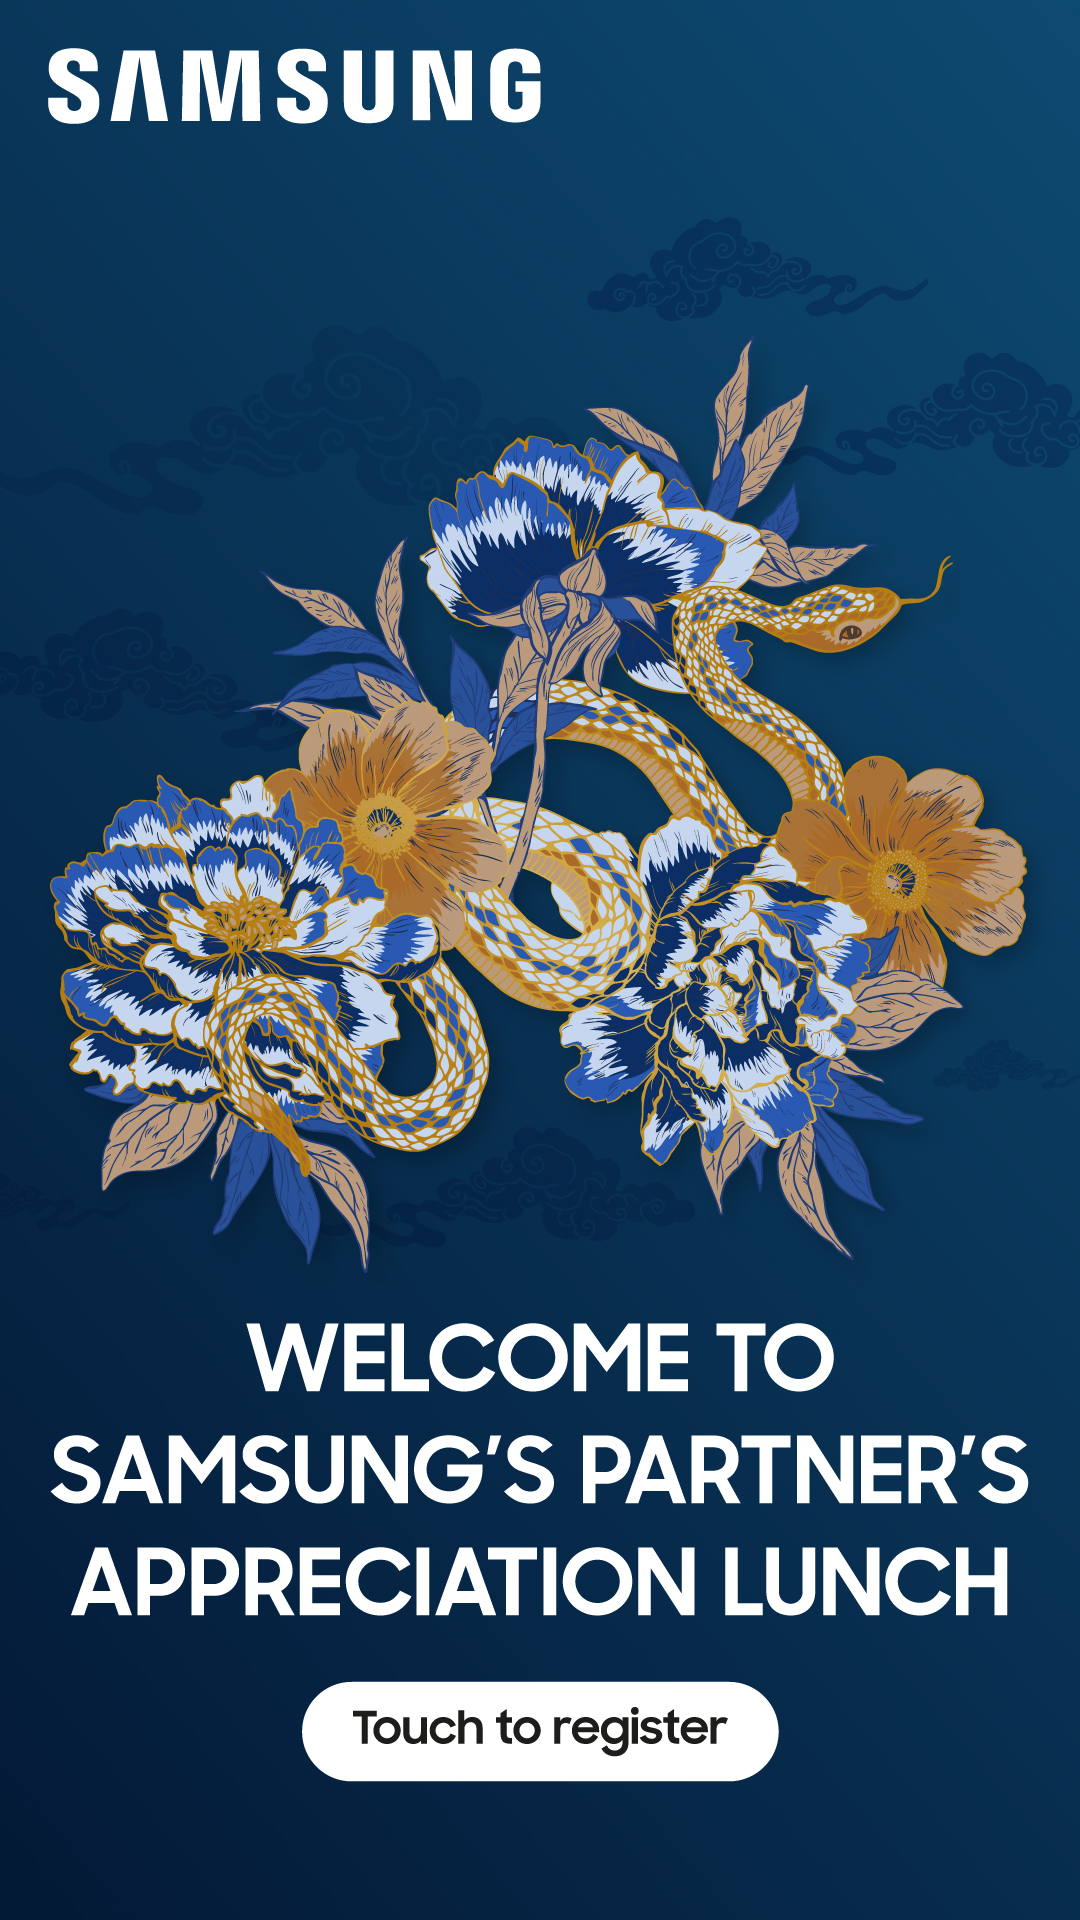
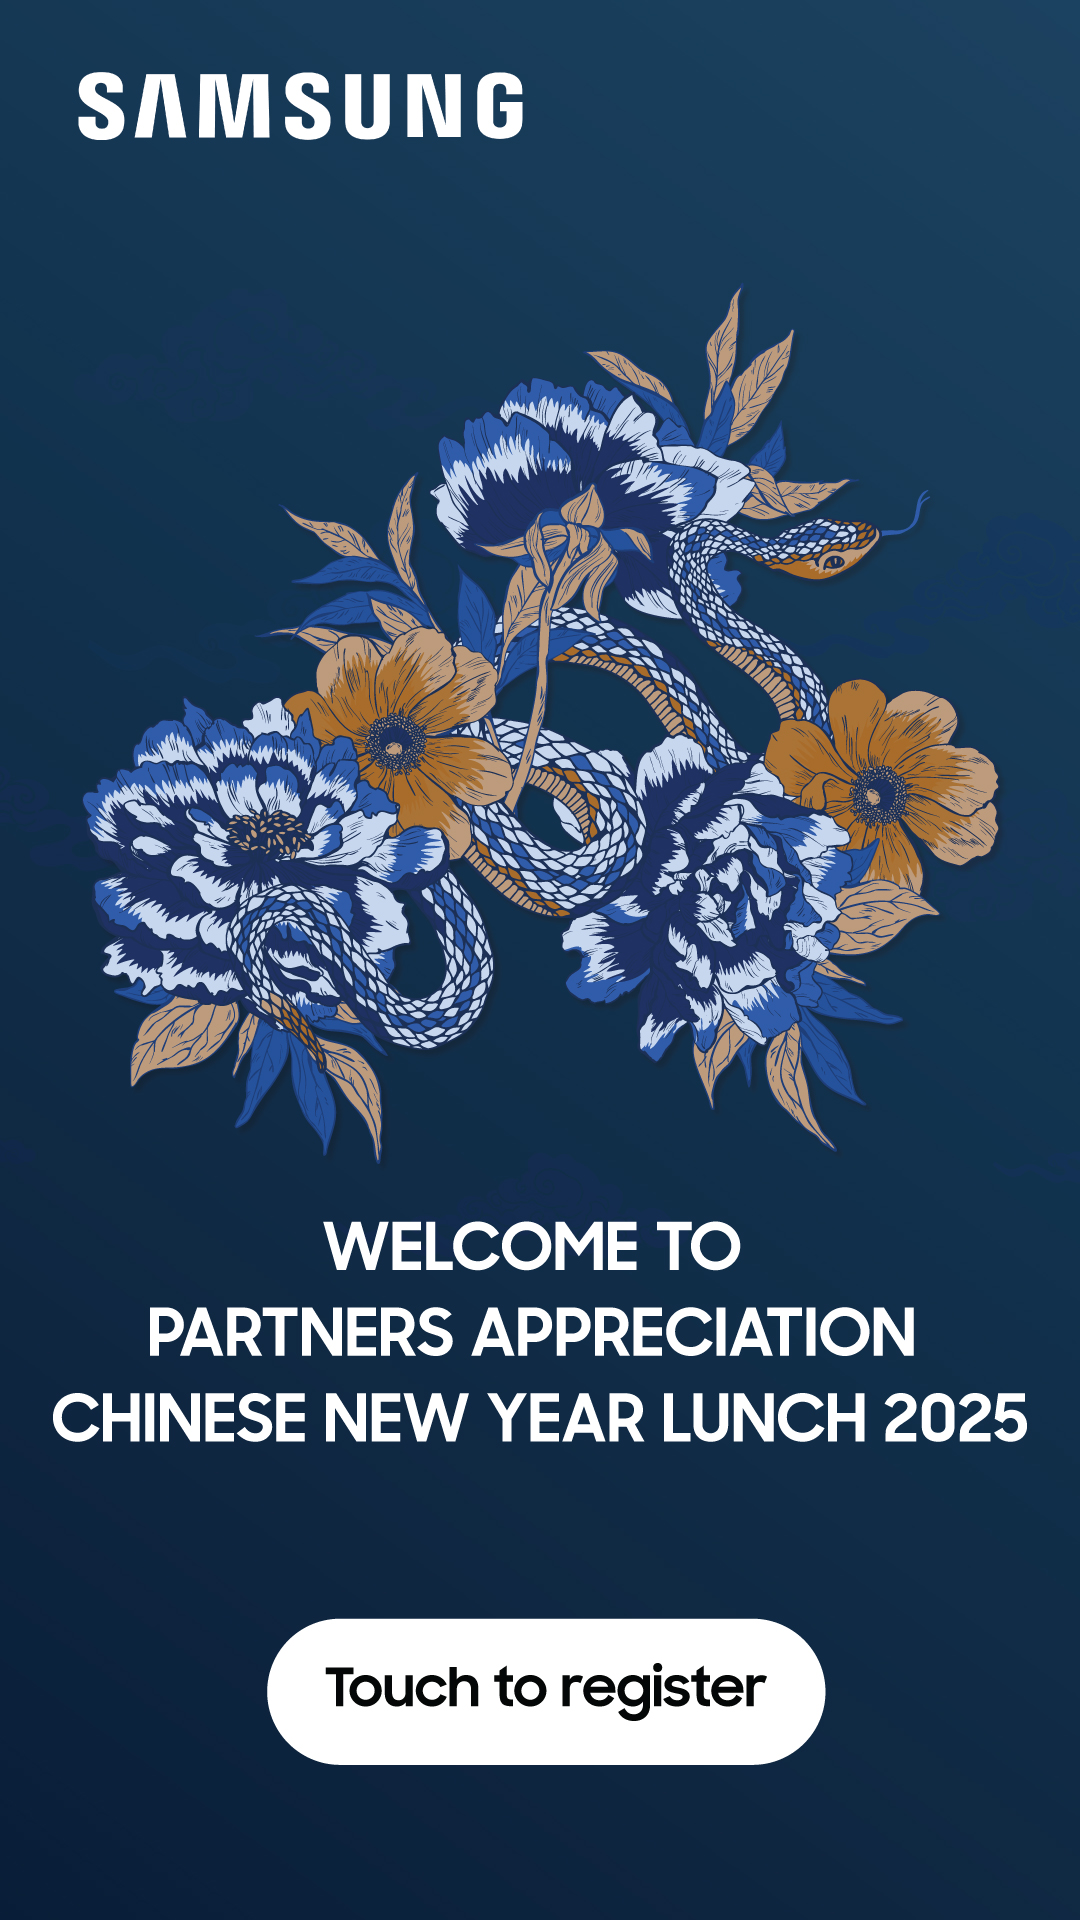
change image

diff --git a/src/screens/HomeScreen.js b/src/screens/HomeScreen.js
@@ -1,7 +1,7 @@
 import React from "react";
 import { useNavigate } from "react-router-dom";
 import "../styles/HomeScreen.css";
-import dragon from "../images/kiosk_cny.jpg";
+import landing from "../images/epaper_partner_event.jpg";
 
 export default function HomeScreen() {
   const navigate = useNavigate();
@@ -13,7 +13,7 @@ export default function HomeScreen() {
   return (
     <div className="c-container" onClick={handleClick}>
       <div className="full-screen">
-        <img src={dragon} alt="Drargon" className="dragon-image" />
+        <img src={landing} alt="Landing Image" className="landing-image" />
       </div>
     </div>
   );

diff --git a/src/screens/PrintScreen.js b/src/screens/PrintScreen.js
@@ -197,10 +197,10 @@ function App() {
       <div className="right-pane">
         <img src={samsung} alt="" />
       </div>
-      <button
+      {/* <button
         className="printscreen-container-print"
         onClick={PrintReceipt()}
-      ></button>
+      ></button> */}
     </div>
   );
 }
